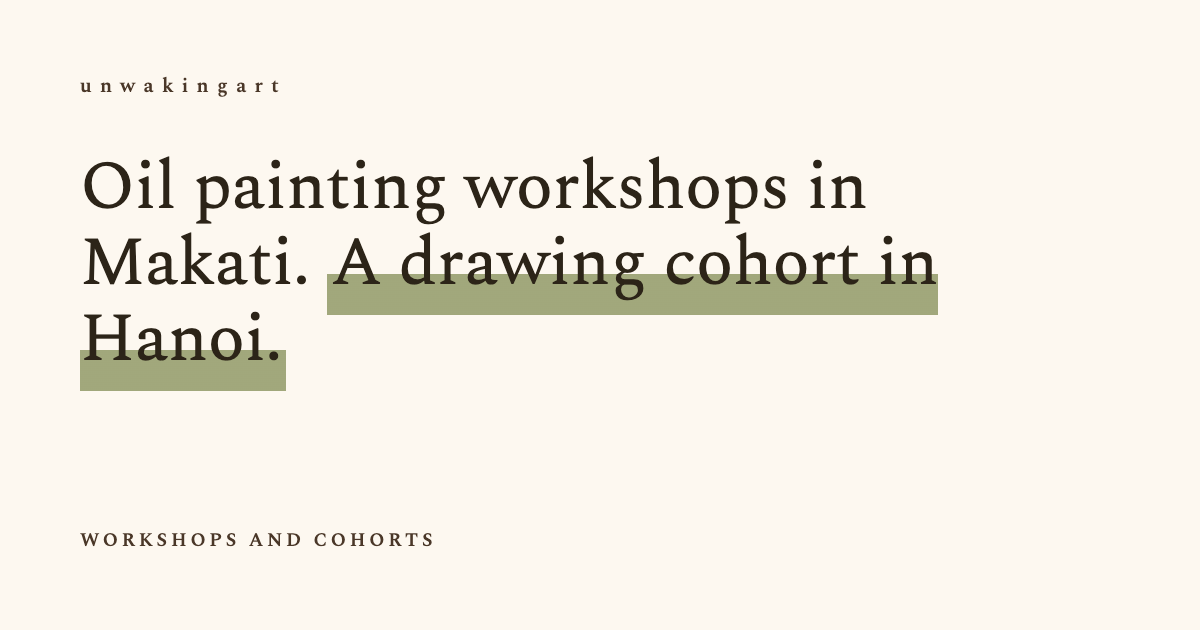
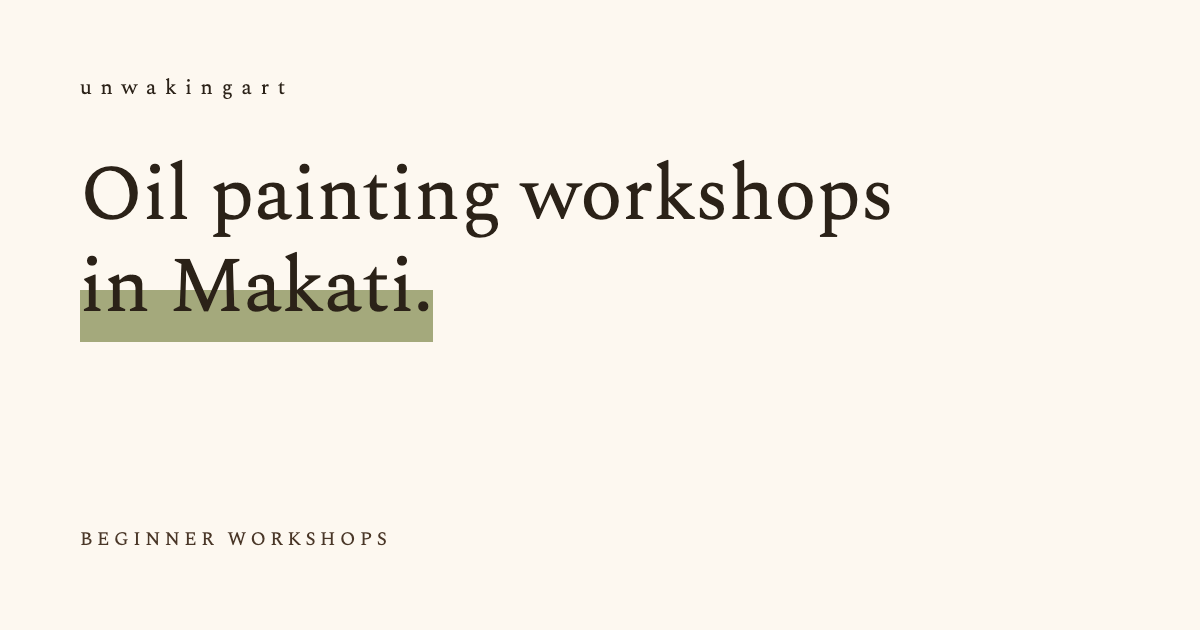
Links page: the workshop only
Claude-Session: https://claude.ai/code/session_01VgSf5s7wR5zVWru1BQMuSE

Changed region(s): [[0.0617, 0.2413, 0.8017, 0.6333], [0.0617, 0.8444, 0.37, 0.8746], [0.0617, 0.1206, 0.2467, 0.1508]]

diff --git a/index.html b/index.html
@@ -3,19 +3,19 @@
 <head>
 <meta charset="UTF-8">
 <meta name="viewport" content="width=device-width, initial-scale=1.0">
-<title>unwakingart · Oil Painting Workshops in Makati and a Drawing Cohort in Hanoi</title>
+<title>unwakingart · Oil Painting Workshops in Makati</title>
 <meta name="google-site-verification" content="SDAGSCQHWYcjTS4--6syw3I3Astp2yzxdDJcOhhv4FQ">
[1 lines of base64/hex data omitted]
 <link rel="canonical" href="https://unwakingart.github.io/">
 <meta property="og:type" content="website">
 <meta property="og:title" content="unwakingart · Art Workshops &amp; Study Trips">
-<meta property="og:description" content="Oil painting workshops in Makati and a drawing cohort in Hanoi.">
+<meta property="og:description" content="Beginner oil painting workshops in Makati.">
 <meta property="og:image" content="https://unwakingart.github.io/images/preview.png">
 <meta property="og:url" content="https://unwakingart.github.io/">
 <meta name="twitter:card" content="summary_large_image">
-<meta name="description" content="unwakingart runs beginner oil painting workshops in Makati, Metro Manila, and an all girls drawing cohort in Hanoi, Vietnam.">
+<meta name="description" content="unwakingart runs beginner oil painting workshops in Makati, Metro Manila.">
 <script type="application/ld+json">{"@context": "https://schema.org", "@type": "Organization", "name": "unwakingart", "url": "https://unwakingart.github.io/", "sameAs": ["https://www.instagram.com/unwakingart/"]}</script>
-<link rel="stylesheet" href="brand/site.css?v=20261010164240">
+<link rel="stylesheet" href="brand/site.css?v=20261011185412">
 <style>
   /* Additions for the links page; everything else comes from brand/site.css (the Hanoi cohort page's look). */
   .wrap { max-width: 560px; padding: 0 22px; }
@@ -36,7 +36,7 @@
   a.note:hover .go, a.note:focus .go { border-bottom-width: 2px; }
   .end { padding-top: 26px; }
 </style>
-<script>(function(){var v="20261010164240";function c(){fetch("version.txt?"+Date.now(),{cache:"no-store"}).then(function(r){return r.text()}).then(function(t){t=t.trim();if(/^\d+$/.test(t)&&t!==v&&location.search.indexOf("v="+t)<0){location.replace(location.pathname+"?v="+t+location.hash)}}).catch(function(){})}c();document.addEventListener("visibilitychange",function(){if(!document.hidden)c()});window.addEventListener("pageshow",function(e){if(e.persisted)c()})})();</script>
+<script>(function(){var v="20261011185412";function c(){fetch("version.txt?"+Date.now(),{cache:"no-store"}).then(function(r){return r.text()}).then(function(t){t=t.trim();if(/^\d+$/.test(t)&&t!==v&&location.search.indexOf("v="+t)<0){location.replace(location.pathname+"?v="+t+location.hash)}}).catch(function(){})}c();document.addEventListener("visibilitychange",function(){if(!document.hidden)c()});window.addEventListener("pageshow",function(e){if(e.persisted)c()})})();</script>
 </head>
 <body>
 
@@ -54,12 +54,6 @@
         <h2>Beginner Oil Painting Portrait</h2>
         <p>Paint your first oil portrait in three hours. No experience needed.</p>
         <span class="go">Register for the workshop</span>
-      </a>
-      <a class="glance note two" href="https://unwakingart.github.io/hanoi-march-2027/" data-goatcounter-click="link-hanoi" data-goatcounter-title="Link: Hanoi cohort">
-        <p class="note-title">[ Hanoi · Mar 4–18, 2027 ]</p>
-        <h2>All Girls Drawing Cohort</h2>
-        <p>Come to Hanoi to study drawing, for one week or two.</p>
-        <span class="go">See the program and apply</span>
       </a>
     </div>
   </div>
